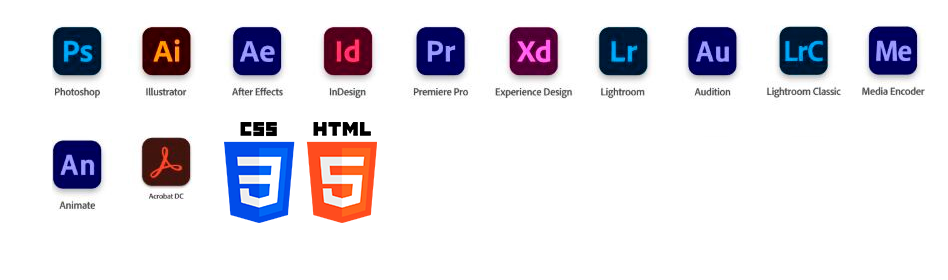
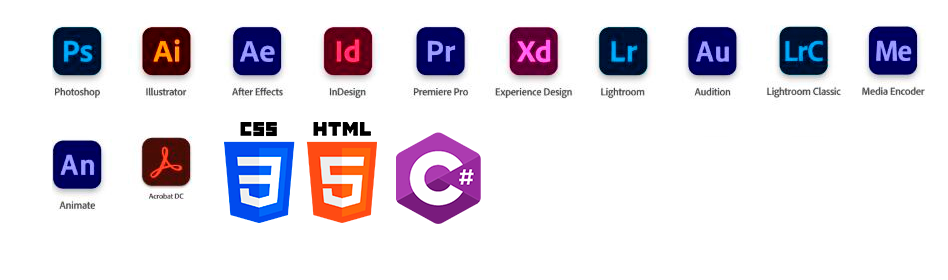
updated video to be responsive

diff --git a/port/about.html b/port/about.html
@@ -16,8 +16,8 @@
           <ul>
             <li><a href="index.html">Hjem</a></li>
             <li><a href="portfolio.html">Portfolio</a></li>
-            <li><a href="contact.html">Kontakt</a></li>
             <li><a href="about.html">Om mig</a></li>
+            <li><a href="contact.html">Kontakt</a></li>
           </ul>
         </nav>
       </header>
@@ -41,7 +41,7 @@
         <div class="text">
           <h1>Rune Huan Yu Englund</h1>
           <p>Jeg går på multimediedesigner uddannelsen på UCL og bor på fyn, jeg kan hurtigt lære nye programmer, jeg arbejder effektivt når der skal arbejdes og tager den med ro når der er pauser. </p>
-          <p>Jeg har færdigheder indenfor følgende software:</p>
+          <p>Jeg har færdigheder indenfor følgende software og programerings sprog:</p>
           <img src="proficincies.png" alt="">
         </div>
       </section>

diff --git a/port/portfolio.html b/port/portfolio.html
@@ -16,8 +16,8 @@
           <ul>
             <li><a href="index.html">Hjem</a></li>
             <li><a href="portfolio.html">Portfolio</a></li>
-            <li><a href="contact.html">Kontakt</a></li>
             <li><a href="about.html">Om mig</a></li>
+            <li><a href="contact.html">Kontakt</a></li>
           </ul>
         </nav>
       </header>
@@ -55,7 +55,7 @@
           <p>Lavet i samarbejde med andre - <a href="https://xd.adobe.com/view/0e6e79d0-d788-4f95-b934-2d64f548dca1-5b3d/">Link til fulde design:</a></p>
         </div>
         <div class="box">
-          <video width="500" height="350" controls>
+          <video width= 100% height=auto controls>
             <source src="moving_art.mp4" type="video/mp4">
           </video>
           <h4>En lille animation af en fugl</h4>

diff --git a/port/contact.html b/port/contact.html
@@ -16,8 +16,8 @@
           <ul>
             <li><a href="index.html">Hjem</a></li>
             <li><a href="portfolio.html">Portfolio</a></li>
-            <li><a href="contact.html">Kontakt</a></li>
             <li><a href="about.html">Om mig</a></li>
+            <li><a href="contact.html">Kontakt</a></li>
           </ul>
         </nav>
       </header>

diff --git a/port/index.html b/port/index.html
@@ -16,8 +16,8 @@
           <ul>
             <li><a href="index.html">Hjem</a></li>
             <li><a href="portfolio.html">Portfolio</a></li>
-            <li><a href="contact.html">Kontakt</a></li>
             <li><a href="about.html">Om mig</a></li>
+            <li><a href="contact.html">Kontakt</a></li>
           </ul>
         </nav>
       </header>

diff --git a/port/index.css b/port/index.css
@@ -6,7 +6,6 @@
   --brown: #957152;
 }
 
-
 body {
   margin: 30px 50px;
   line-height: 1.4;
@@ -45,16 +44,11 @@ li a {
   text-decoration: none;
   text-align: center;
   background: var(--white);
-
 }
 
 li a:hover {
   color: var(--white);
   background: var(--black);
-}
-
-.active {
-  color: var(--brown);
 }
 
 .container {
